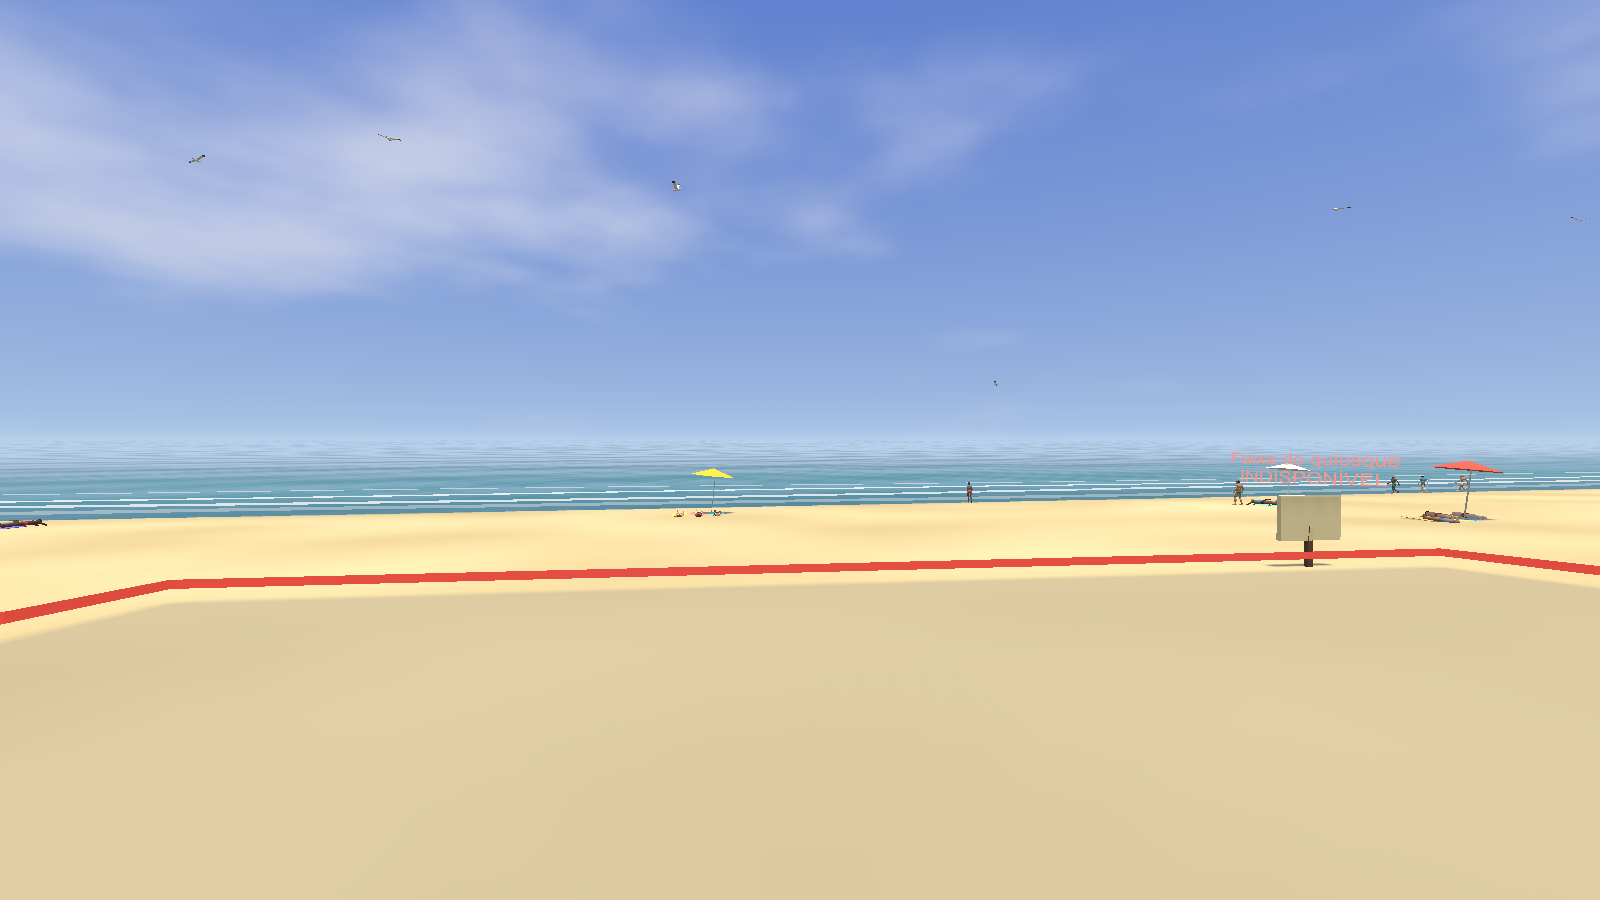
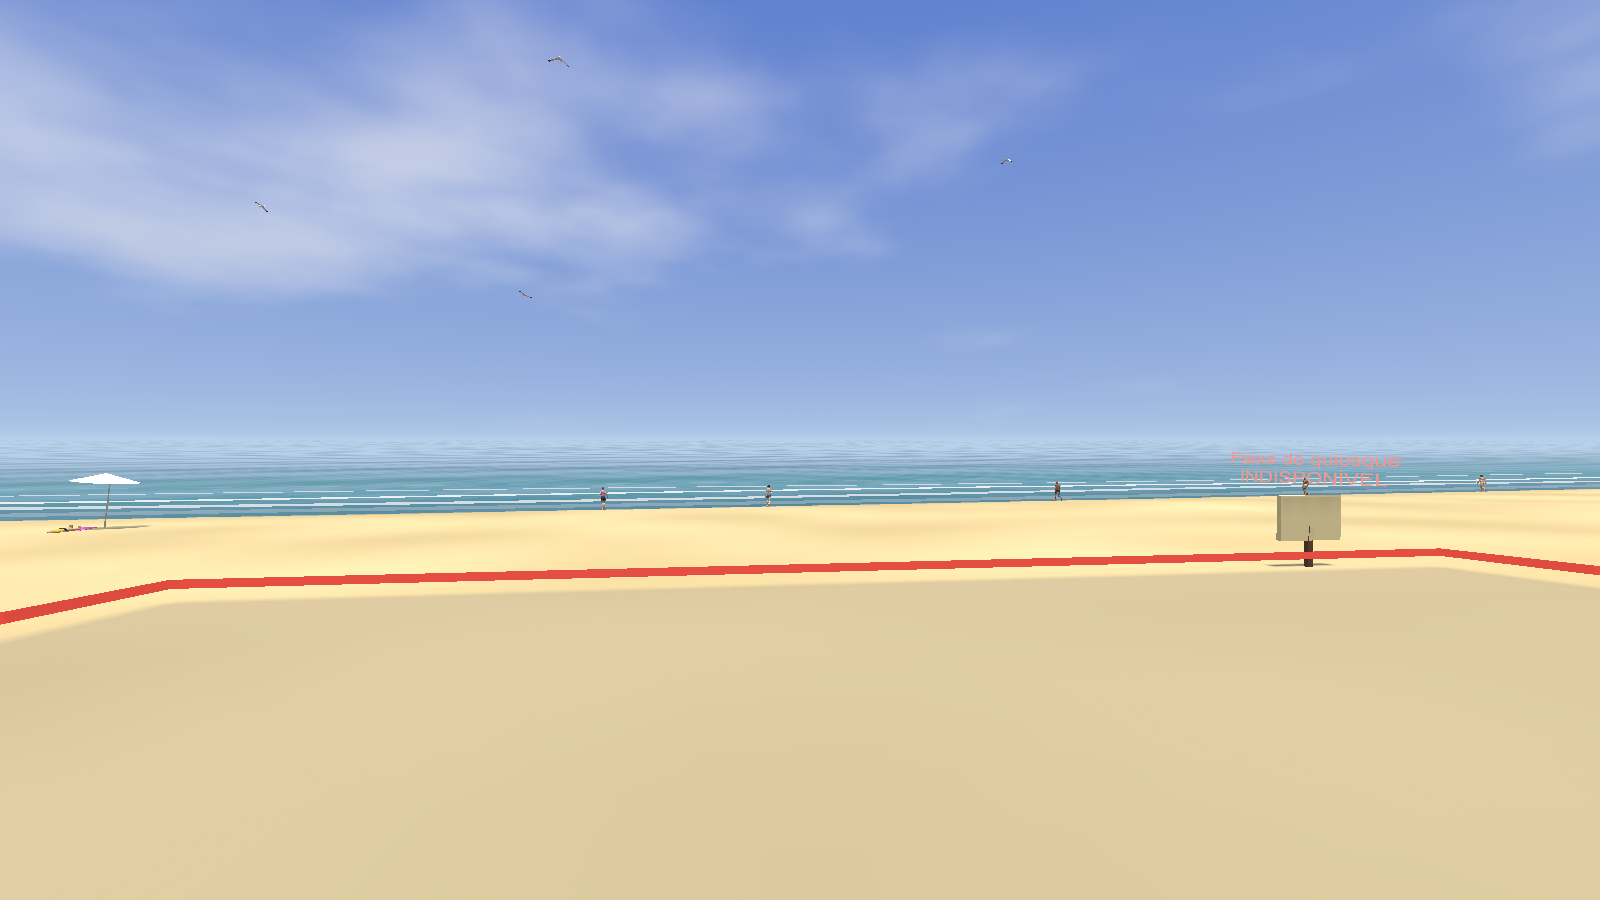
Phase 02: pairs of beachgoers play ball on the sand (Role.Player, Gesture.Hit, Mix.Players) with tests and capture

Changed region(s): [[0.0, 0.4978, 1.0, 0.5911]]

diff --git a/FacilityOps/Assets/_Game/Scripts/Resort/Game/BeachLife.cs b/FacilityOps/Assets/_Game/Scripts/Resort/Game/BeachLife.cs
@@ -14,7 +14,7 @@ namespace ResortAurora.Game
     /// </summary>
     public sealed class BeachLife : MonoBehaviour
     {
-        public enum Role { Stroller, Jogger, Cyclist, Sunbather, Swimmer, Kid }
+        public enum Role { Stroller, Jogger, Cyclist, Sunbather, Swimmer, Kid, Player }
         const float RangeHalf = 120f;                         // promenade stretch that is populated, either side of the kiosk
         const int MaxAdults = 84, MaxKids = 24;
 
@@ -27,7 +27,7 @@ namespace ResortAurora.Game
             public int state, dir; public Pose pose;
             public Ambient leader; public Vector3 offset;
             public Spot spot; public Vector3 anchor, target; public float bob;
-            public GameObject towel;
+            public GameObject towel, ball;                      // ball: owned by the first player of a pair
         }
 
         ResortGame game; ResortSite site; StallLayout lay;
@@ -40,6 +40,7 @@ namespace ResortAurora.Game
         float lodTimer, popTimer, lastHours = -1f;
         Transform folder;
         Mesh umbrellaMesh;
+        Material ballMat;
         public int[] LodCounts { get; } = new int[4];
 
         public int ActiveCount { get; private set; }
@@ -113,6 +114,8 @@ namespace ResortAurora.Game
         {
             a.active = false;
             if (a.towel != null) Destroy(a.towel);
+            if (a.ball != null) { Destroy(a.ball); a.ball = null; }
+            a.rig.HitPulse = 0f;
             a.rig.Gesture = Gesture.None; a.rig.BodyOffset = Vector3.zero; a.rig.SetLod(3);
             a.rig.gameObject.SetActive(false);
             (a.isKid ? freeKids : freeAdults).Push(a.rig);
@@ -216,6 +219,7 @@ namespace ResortAurora.Game
             for (int i = CountOf(Role.Cyclist); i < mix.Cyclists; i++) SpawnRunner(Role.Cyclist, true);
             FillBeach(mix, true);
             for (int i = PeopleOf(Role.Swimmer); i < mix.Swimmers; i++) SpawnSwimmer();
+            for (int i = CountOf(Role.Player); i < mix.Players; i++) SpawnPair(true);
         }
 
         void Rebalance()
@@ -228,6 +232,7 @@ namespace ResortAurora.Game
             Steer(Role.Jogger, mix.Joggers, () => SpawnRunner(Role.Jogger, false));
             Steer(Role.Cyclist, mix.Cyclists, () => SpawnRunner(Role.Cyclist, false));
             FillBeach(mix, false);
+            Steer(Role.Player, mix.Players, () => SpawnPair(false));
             int swim = PeopleOf(Role.Swimmer);
             if (swim < mix.Swimmers && rng.NextDouble() < 0.6) SpawnSwimmer();
             else if (swim > mix.Swimmers) foreach (var a in all) if (a.active && a.role == Role.Swimmer && !a.leaving) { a.leaving = true; break; }
@@ -335,6 +340,48 @@ namespace ResortAurora.Game
             a.pose = Pose.Walk;
         }
 
+        /// <summary>Two people on the sand knocking a ball back and forth (frescobol): they walk down from the promenade, face each other and play.</summary>
+        void SpawnPair(bool instant)
+        {
+            float cx = 0f, cz = 0f; bool found = false;
+            for (int tries = 0; tries < 40 && !found; tries++)
+            {
+                cx = sx + ((float)rng.NextDouble() - 0.5f) * 2f * 85f;
+                cz = EdgeZ(cx) - 12f - (float)rng.NextDouble() * 55f;
+                if (cx > sx - 14f && cx < sx + 15f && cz > kioskZ - 14f) continue;                 // the kiosk, its tables and its path
+                if (site.HeightAt(cx - 3.3f, cz) < 0.6f || site.HeightAt(cx + 3.3f, cz) < 0.6f) continue;   // both ends on dry sand
+                found = true;
+                foreach (var s in spots) if ((s.pos.x - cx) * (s.pos.x - cx) + (s.pos.z - cz) * (s.pos.z - cz) < 6f * 6f) { found = false; break; }
+                if (found) foreach (var o in all) if (o.active && o.role == Role.Player && (o.anchor.x - cx) * (o.anchor.x - cx) + (o.anchor.z - cz) * (o.anchor.z - cz) < 8f * 8f) { found = false; break; }
+            }
+            if (!found) return;
+            float half = 2.6f + 0.7f * (float)rng.NextDouble();
+            var first = SpawnPlayer(cx - half, cz, instant, 90f);
+            if (first == null) return;
+            var second = SpawnPlayer(cx + half, cz, instant, 270f);
+            if (second == null) { Release(first); return; }
+            second.leader = first;
+            first.timer = 45f + 90f * (float)rng.NextDouble();
+            var ball = GameObject.CreatePrimitive(PrimitiveType.Sphere); ball.name = "BeachBall";
+            Destroy(ball.GetComponent<Collider>());
+            ball.transform.SetParent(folder, false); ball.transform.localScale = Vector3.one * 0.2f;
+            if (ballMat == null) ballMat = StallBuilder.Mat(new Color(0.95f, 0.85f, 0.25f), 0.35f);
+            ball.GetComponent<MeshRenderer>().sharedMaterial = ballMat;
+            ball.SetActive(instant);
+            first.ball = ball;
+        }
+
+        Ambient SpawnPlayer(float x, float z, bool instant, float yaw)
+        {
+            Vector3 start = instant ? new Vector3(x, 0f, z) : new Vector3(x, 0f, EdgeZ(x) + 0.5f);
+            var a = Spawn(Role.Player, start, yaw, false, PersonKind.Active);
+            if (a == null) return null;
+            a.anchor = new Vector3(x, 0f, z); a.speed = 1.3f; a.state = instant ? 1 : 0;
+            a.pose = instant ? Pose.Stand : Pose.Walk;
+            if (instant) a.rig.Gesture = Gesture.Hit;
+            return a;
+        }
+
         // ---------------------------------------------------------------- per frame
 
         void Update()
@@ -385,6 +432,7 @@ namespace ResortAurora.Game
                 case Role.Sunbather: TickSunbather(a, dt); break;
                 case Role.Kid: TickKid(a, dt); break;
                 case Role.Swimmer: TickSwimmer(a, dt); break;
+                case Role.Player: TickPlayer(a, dt); break;
             }
             if (player.HasValue && a.active) Yield(a, player.Value);
         }
@@ -492,6 +540,61 @@ namespace ResortAurora.Game
             var d = a.pos - cam.transform.position; d.y = 0f;
             return d.sqrMagnitude > 120f * 120f;
         }
+
+        /// <summary>Ball game: walk to the mark, face the partner and hit the ball back and forth in an arc until the game ends, then walk off.</summary>
+        void TickPlayer(Ambient a, float dt)
+        {
+            var lead = a.leader ?? a;
+            if (a.state != 3 && (lead.leaving || !lead.active || (a.leader != null && lead.state == 3)))
+            {
+                a.state = 3; a.rig.Gesture = Gesture.None; a.rig.HitPulse = 0f;
+                if (a.ball != null) a.ball.SetActive(false);
+            }
+            switch (a.state)
+            {
+                case 0:                                                                    // walking to the mark
+                {
+                    var to = a.anchor - a.pos; to.y = 0f; float d = to.magnitude;
+                    a.pose = Pose.Walk; a.yaw = Mathf.LerpAngle(a.yaw, PersonRig.YawTowards(a.pos, a.anchor), 8f * dt);
+                    if (d < 0.15f) { a.state = 1; a.pos = a.anchor; a.pose = Pose.Stand; a.rig.Gesture = Gesture.Hit; }
+                    else a.pos += to / d * Mathf.Min(d, a.speed * dt);
+                    break;
+                }
+                case 1:                                                                    // playing
+                {
+                    a.pose = Pose.Stand;
+                    a.yaw = Mathf.LerpAngle(a.yaw, a.leader == null ? 90f : 270f, 8f * dt);       // the first player stands at the west end
+                    if (a.leader != null) break;                                           // the first player runs the game
+                    a.timer -= dt;
+                    if (a.timer <= 0f) { a.leaving = true; break; }
+                    var other = Partner(a);
+                    if (other == null || other.state != 1) { if (a.ball != null) a.ball.SetActive(false); a.rig.HitPulse = 0f; break; }
+                    // one hop of the ball every ~1.5 s: u runs 0 -> 1 (to the partner) and back
+                    float u = Mathf.PingPong(Time.time * 0.66f + a.bob, 1f);
+                    var hA = a.pos + Vector3.up * 1.15f + new Vector3(0.15f, 0f, 0f);
+                    var hB = other.pos + Vector3.up * 1.15f - new Vector3(0.15f, 0f, 0f);
+                    bool visible = a.rig.Lod <= 1;
+                    if (a.ball != null)
+                    {
+                        a.ball.SetActive(visible);
+                        a.ball.transform.position = Vector3.Lerp(hA, hB, u) + Vector3.up * (4f * u * (1f - u) * 1.9f);
+                    }
+                    a.rig.HitPulse = Mathf.Clamp01(1f - u / 0.2f);
+                    other.rig.HitPulse = Mathf.Clamp01(1f - (1f - u) / 0.2f);
+                    break;
+                }
+                case 3:                                                                    // leaving: up the beach to the promenade
+                {
+                    var goal = new Vector3(a.pos.x, 0f, EdgeZ(a.pos.x) + 0.6f);
+                    var to = goal - a.pos; to.y = 0f; float d = to.magnitude;
+                    a.pose = Pose.Walk; a.yaw = Mathf.LerpAngle(a.yaw, PersonRig.YawTowards(a.pos, goal), 8f * dt);
+                    if (d < 0.3f || OutOfSight(a)) Release(a); else a.pos += to / d * Mathf.Min(d, 1.3f * dt);
+                    break;
+                }
+            }
+        }
+
+        Ambient Partner(Ambient first) { foreach (var o in all) if (o.active && o.leader == first && o.role == Role.Player) return o; return null; }
 
         void TickKid(Ambient a, float dt)
         {

diff --git a/FacilityOps/Assets/_Game/Tests/PlayMode/LivingWorldTests.cs b/FacilityOps/Assets/_Game/Tests/PlayMode/LivingWorldTests.cs
@@ -134,7 +134,8 @@ namespace ResortAurora.Tests
             Assert.GreaterOrEqual(noon.Beach, 10); Assert.GreaterOrEqual(noon.Swimmers, 3); Assert.GreaterOrEqual(noon.Strollers, 8);
             Assert.LessOrEqual(noon.Total, 70, "the ambient crowd stays inside its pool budget");
             var night = PopulationModel.MixFor(22f, Weather.Sunny, 0.5f, 1);
-            Assert.AreEqual(0, night.Beach); Assert.AreEqual(0, night.Swimmers); Assert.AreEqual(0, night.Kids);
+            Assert.GreaterOrEqual(noon.Players, 1, "people play ball on the sand at noon");
+            Assert.AreEqual(0, night.Beach); Assert.AreEqual(0, night.Swimmers); Assert.AreEqual(0, night.Kids); Assert.AreEqual(0, night.Players);
             Assert.GreaterOrEqual(night.Strollers, 1, "the promenade is quieter at night, never empty");
             Assert.Less(PopulationModel.MixFor(12f, Weather.Cloudy, 0.5f, 1).Total, PopulationModel.MixFor(12f, Weather.Hot, 0.5f, 1).Total, "bad weather empties the beach");
             Assert.Greater(PopulationModel.MixFor(7f, Weather.Sunny, 0.5f, 1).Joggers, 0, "mornings belong to joggers");
@@ -160,6 +161,8 @@ namespace ResortAurora.Tests
             Assert.Greater(life.PeopleOf(BeachLife.Role.Stroller), 0, "people stroll");
             Assert.Greater(life.PeopleOf(BeachLife.Role.Sunbather), 0, "people sit and lie on the sand");
             Assert.Greater(life.PeopleOf(BeachLife.Role.Swimmer), 0, "people are in the water");
+            Assert.GreaterOrEqual(life.PeopleOf(BeachLife.Role.Player), 2, "at least one pair plays ball on the sand");
+            Assert.AreEqual(0, life.PeopleOf(BeachLife.Role.Player) % 2, "ball players come in pairs");
 
             int sum = 0; foreach (var c in life.LodCounts) sum += c;
             Assert.AreEqual(life.ActiveCount, sum, "every active person has a level of detail");
@@ -179,12 +182,32 @@ namespace ResortAurora.Tests
             }
             Debug.Log("LIFE roles seen: " + string.Join(",", seen));
 
+            // evidence: a pair playing ball (real render, not concept art)
+            var players = new List<Vector3>();
+            foreach (var s in life.Snapshot()) if (s.role == BeachLife.Role.Player) players.Add(s.pos);
+            Assert.GreaterOrEqual(players.Count, 2, "a ball pair to photograph");
+            var mate = players[1]; foreach (var q in players.GetRange(1, players.Count - 1)) if ((q - players[0]).sqrMagnitude < (mate - players[0]).sqrMagnitude) mate = q;
+            Assert.Less((mate - players[0]).magnitude, 8f, "partners play close to each other");
+            {
+                var cam = Camera.main; var p = (players[0] + mate) * 0.5f;
+                var from = p + new Vector3(1.5f, 1.7f, 8.5f); var at = p + new Vector3(0f, 1.6f, 0f);
+                cam.transform.SetPositionAndRotation(from, Quaternion.LookRotation(at - from));
+                yield return new WaitForSeconds(0.4f);
+                string dir = Path.GetFullPath("../ArtSource/Blender/World/Reviews/F02"); Directory.CreateDirectory(dir);
+                var rt = new RenderTexture(1600, 900, 24); cam.targetTexture = rt; cam.Render(); RenderTexture.active = rt;
+                var tex = new Texture2D(1600, 900, TextureFormat.RGB24, false); tex.ReadPixels(new Rect(0, 0, 1600, 900), 0, 0); tex.Apply();
+                File.WriteAllBytes(Path.Combine(dir, "f02_8_bola_na_areia.png"), tex.EncodeToPNG());
+                cam.targetTexture = null; RenderTexture.active = null; Object.Destroy(rt); Object.Destroy(tex);
+            }
+
             // night: the beach empties, the promenade stays alive
             g.Clock.Restore(1, 21f * 60f);
             yield return new WaitForSeconds(2.6f);
             Debug.Log($"LIFE night: active {life.ActiveCount} sunbathers {life.PeopleOf(BeachLife.Role.Sunbather)} swimmers {life.PeopleOf(BeachLife.Role.Swimmer)} strollers {life.PeopleOf(BeachLife.Role.Stroller)}");
             Assert.AreEqual(0, life.PeopleOf(BeachLife.Role.Sunbather), "nobody sunbathes at night");
             Assert.AreEqual(0, life.PeopleOf(BeachLife.Role.Swimmer), "nobody swims at night");
+            Assert.AreEqual(0, life.PeopleOf(BeachLife.Role.Player), "nobody plays ball at night");
+            Assert.IsNull(GameObject.Find("BeachBall"), "the ball goes away with its players");
             Assert.Less(life.ActiveCount, day, "fewer people at night");
             Assert.IsTrue(g.DayNight.LampsOn, "lamps are on at 21:00");
 

diff --git a/FacilityOps/Assets/_Game/Scripts/Resort/Game/PersonRig.cs b/FacilityOps/Assets/_Game/Scripts/Resort/Game/PersonRig.cs
@@ -6,7 +6,7 @@ namespace ResortAurora.Game
 {
     public enum PersonKind { Casual, Beach, Active, Kid, Staff }
     public enum Pose { Stand, Walk, Run, SitSand, SitChair, LieBack, LieFront, Swim, Bike }
-    public enum Gesture { None, Phone, Drink, Chat, Dig }
+    public enum Gesture { None, Phone, Drink, Chat, Dig, Hit }
 
     /// <summary>
     /// A procedural person (prototype art, scaled 1.55-1.88 m): torso, head, hair, arms and two-segment legs, with a few palette-driven looks
@@ -48,6 +48,8 @@ namespace ResortAurora.Game
         public int Lod => lod;
         public Gesture Gesture { get; set; }
         public Vector3 BodyOffset { get; set; }
+        /// <summary>0..1 strength of the current ball strike for <see cref="Gesture.Hit"/> (driven by the game that owns the ball).</summary>
+        public float HitPulse { get; set; }
 
         static T Pick<T>(T[] a, System.Random r) => a[r.Next(a.Length)];
 
@@ -285,6 +287,7 @@ namespace ResortAurora.Game
                 case Gesture.Drink: Rot(armR, -40f - 90f * Mathf.SmoothStep(0f, 1f, Mathf.PingPong(t * 0.35f, 1f)), 8f); break;
                 case Gesture.Chat: Rot(armR, -35f - 25f * Mathf.Sin(t * 3.1f), 6f); Rot(armL, -15f - 10f * Mathf.Sin(t * 2.3f + 1f)); break;
                 case Gesture.Dig: Rot(armR, -50f + 30f * Mathf.Sin(t * 5f)); Rot(armL, -50f - 30f * Mathf.Sin(t * 5f)); break;
+                case Gesture.Hit: Rot(armR, -35f - 125f * HitPulse, 4f); Rot(armL, -20f - 30f * HitPulse, -6f); break;   // racket arm swings up through the strike
             }
         }
 

diff --git a/FacilityOps/Assets/_Game/Scripts/Resort/Sim/Daylight.cs b/FacilityOps/Assets/_Game/Scripts/Resort/Sim/Daylight.cs
@@ -59,7 +59,7 @@ namespace ResortAurora.Sim
             1.00f, 1.00f, 0.95f, 0.86f, 0.80f, 0.74f,   0.60f, 0.42f, 0.32f, 0.24f, 0.14f, 0.08f,
         };
 
-        public struct Mix { public int Strollers, Joggers, Cyclists, Beach, Swimmers, Kids; public int Total => Strollers + Joggers + Cyclists + Beach + Swimmers + Kids; }
+        public struct Mix { public int Strollers, Joggers, Cyclists, Beach, Swimmers, Kids, Players; public int Total => Strollers + Joggers + Cyclists + Beach + Swimmers + Kids; }
 
         public static float Density(float hours, Weather w, float reputation, int stage)
         {
@@ -85,6 +85,7 @@ namespace ResortAurora.Sim
                 Beach = (int)Math.Round(24f * d * sunny),
                 Swimmers = (int)Math.Round(8f * d * sunny * (w == Weather.Cloudy || w == Weather.Windy ? 0.5f : 1f)),
                 Kids = (int)Math.Round(6f * d * sunny),
+                Players = (int)Math.Round(2.4f * d * sunny * (w == Weather.Cloudy || w == Weather.Windy ? 0.4f : 1f)),   // pairs playing ball; two people each, on top of Total
             };
         }
     }

diff --git a/Docs/PROJECT_RESORT_EXECUTION/CLAUDE_CURRENT_TASK.md b/Docs/PROJECT_RESORT_EXECUTION/CLAUDE_CURRENT_TASK.md
@@ -1,6 +1,6 @@
 # PROJECT RESORT — Tarefa Atual do Claude
 
-Atualizado em 2026-10-06 (fim da rodada 5 de refinamentos seguros da Fase 02).
+Atualizado em 2026-10-06 (fim da rodada 6 de refinamentos seguros da Fase 02).
 
 ## Fase atual
 
@@ -21,7 +21,8 @@ A Fase 03 NÃO está liberada.
 - Rodada 3 (feita): mar com shader próprio (`Resources/ResortSea.shader`: cor por profundidade, ondulação, Fresnel, brilho) e malha que segue a linha d'água; céu noturno sem o brilho amarelo (o sol agora desce abaixo do horizonte). 20/20 testes, sem regressão de desempenho (2,8 ms).
 - Rodada 4 (feita): céu com shader próprio (`Resources/ResortSky.shader`): crepúsculo violeta e noite azul-marinho com estrelas no lugar do oliva/preto; 20/20 testes, 0 erros de shader.
 - Rodada 5 (feita): nuvens procedurais no shader do céu (`ResortSky.shader`, cor por hora, cobertura maior com clima nublado); 20/20 testes, 0 erros de shader.
-- Relatório: `RELATORIO_02_VERTICAL_SLICE_QUIOSQUE.md` (adendos 1 a 5 de 2026-10-06).
+- Rodada 6 (feita): duplas jogando bola na areia (`BeachLife.Role.Player`, `Gesture.Hit`, `Mix.Players`); 20/20 testes, 0 erros de shader/compilação. Captura: `f02_8_bola_na_areia.png`.
+- Relatório: `RELATORIO_02_VERTICAL_SLICE_QUIOSQUE.md` (adendos 1 a 6 de 2026-10-06).
 
 ## Pendente (nada disso se resolve só com código)
 
@@ -33,7 +34,7 @@ A Fase 03 NÃO está liberada.
 - ~~Clientes sentarem nas mesas no estágio 2~~ (feito). ~~HUD de próximo passo~~ (feito; falta olhar humano).
 - Corrigir no Blender (`Tools/Blender/sa_stages.py::kiosk`) a mesa oeste a 7 m que cai dentro do bloco de banheiros e então reativar essa mesa em `StallLayout.AddKioskSeats` (exige o `.blend` base e regenerar/re-exportar o FBX do estágio 2).
 - Sentar/deitar/nadar ainda são procedurais: avaliar clipes gratuitos (Human Crafting Animations FREE, Creative Characters FREE) e o aspecto dos corpos animados; se os manequins ainda parecerem artificiais de perto, o Diretor deve apresentar 1–3 opções pagas ao usuário antes de comprar qualquer coisa.
-- Refinar o rig/roupas dos NPCs; mar sem espuma de profundidade/reflexos de objetos (cosmético); mais variedade de atividades na areia.
+- Refinar o rig/roupas dos NPCs; mar sem espuma de profundidade/reflexos de objetos (cosmético); mais variedade de atividades na areia (feito: duplas jogando bola; faltam p.ex. vendedor ambulante, pessoas lendo/dormindo sob guarda-sol, cachorro).
 - Equilíbrio fino da fila/spawn só com dados de jogada humana (curva atual: 6–8h quase sem clientes; o teste `FirstDayDemandIsWorthPlayingAndProfitable` protege a faixa).
 
 ## Próxima ação concreta

diff --git a/Docs/PROJECT_RESORT_EXECUTION/RELATORIO_02_VERTICAL_SLICE_QUIOSQUE.md b/Docs/PROJECT_RESORT_EXECUTION/RELATORIO_02_VERTICAL_SLICE_QUIOSQUE.md
@@ -157,3 +157,21 @@ Depois abrir `ResortPrologue` e jogar: olhar o calçadão às 12h, 18h20 e 20h30
 
 ## Limitações
 - Nuvens são só cosméticas (sem sombra no chão, sem volume); desempenho não remedido (custo: 10 amostras de ruído por pixel de céu, desprezível). Nada disso foi visto por uma pessoa.
+
+---
+
+# Adendo 6 — duplas jogando bola na areia (2026-10-06, rodada 6)
+
+**Status: COMPILADO, TESTADO (20/20 PlayMode, modo gráfico, 0 `error CS` / `Shader error` no log) e CAPTURADO. Gate técnico segue PASS. `HUMAN_GATE_PENDING` continua; a Fase 03 NÃO está liberada.**
+
+## O que mudou
+- Nova atividade ambiente `BeachLife.Role.Player`: duplas de pessoas ativas descem do calçadão até marcas na areia seca (3–4 m do centro, fora da área do quiosque e a mais de 6 m de toalhas/guarda-sóis e 8 m de outra dupla), ficam frente a frente e rebatem uma bola em arco (a bola é um único objeto por dupla, só visível em LOD 0–1). Jogam 45–135 s e voltam ao calçadão; a bola some com a dupla.
+- `Gesture.Hit` / `PersonRig.HitPulse`: o braço de rebatida sobe no instante em que a bola chega a cada jogador.
+- `PopulationModel.Mix.Players` (pares; não entra em `Total`, ~2–3 duplas ao meio-dia, 0 à noite, menos em tempo nublado/ventoso).
+
+## Evidência
+- `Run-UnityResortTests.ps1 -Graphics` -> `TESTS total=20 passed=20 failed=0` (linha de base antes da mudança também 20/20). `BeachIsAliveByDayAndQuieterAtNight` agora exige >= 1 dupla ao meio-dia, número par de jogadores, nenhum à noite e nenhuma bola solta depois.
+- Captura real da Unity: `ArtSource/Blender/World/Reviews/F02/f02_8_bola_na_areia.png` (dupla com bola no ar; corpos ainda são os bonecos procedurais, é blockout).
+
+## Limitações
+- Poses dos jogadores são procedurais (sem clipes de rebatida); a bola não tem física nem quica na areia. Sem avaliação humana.
